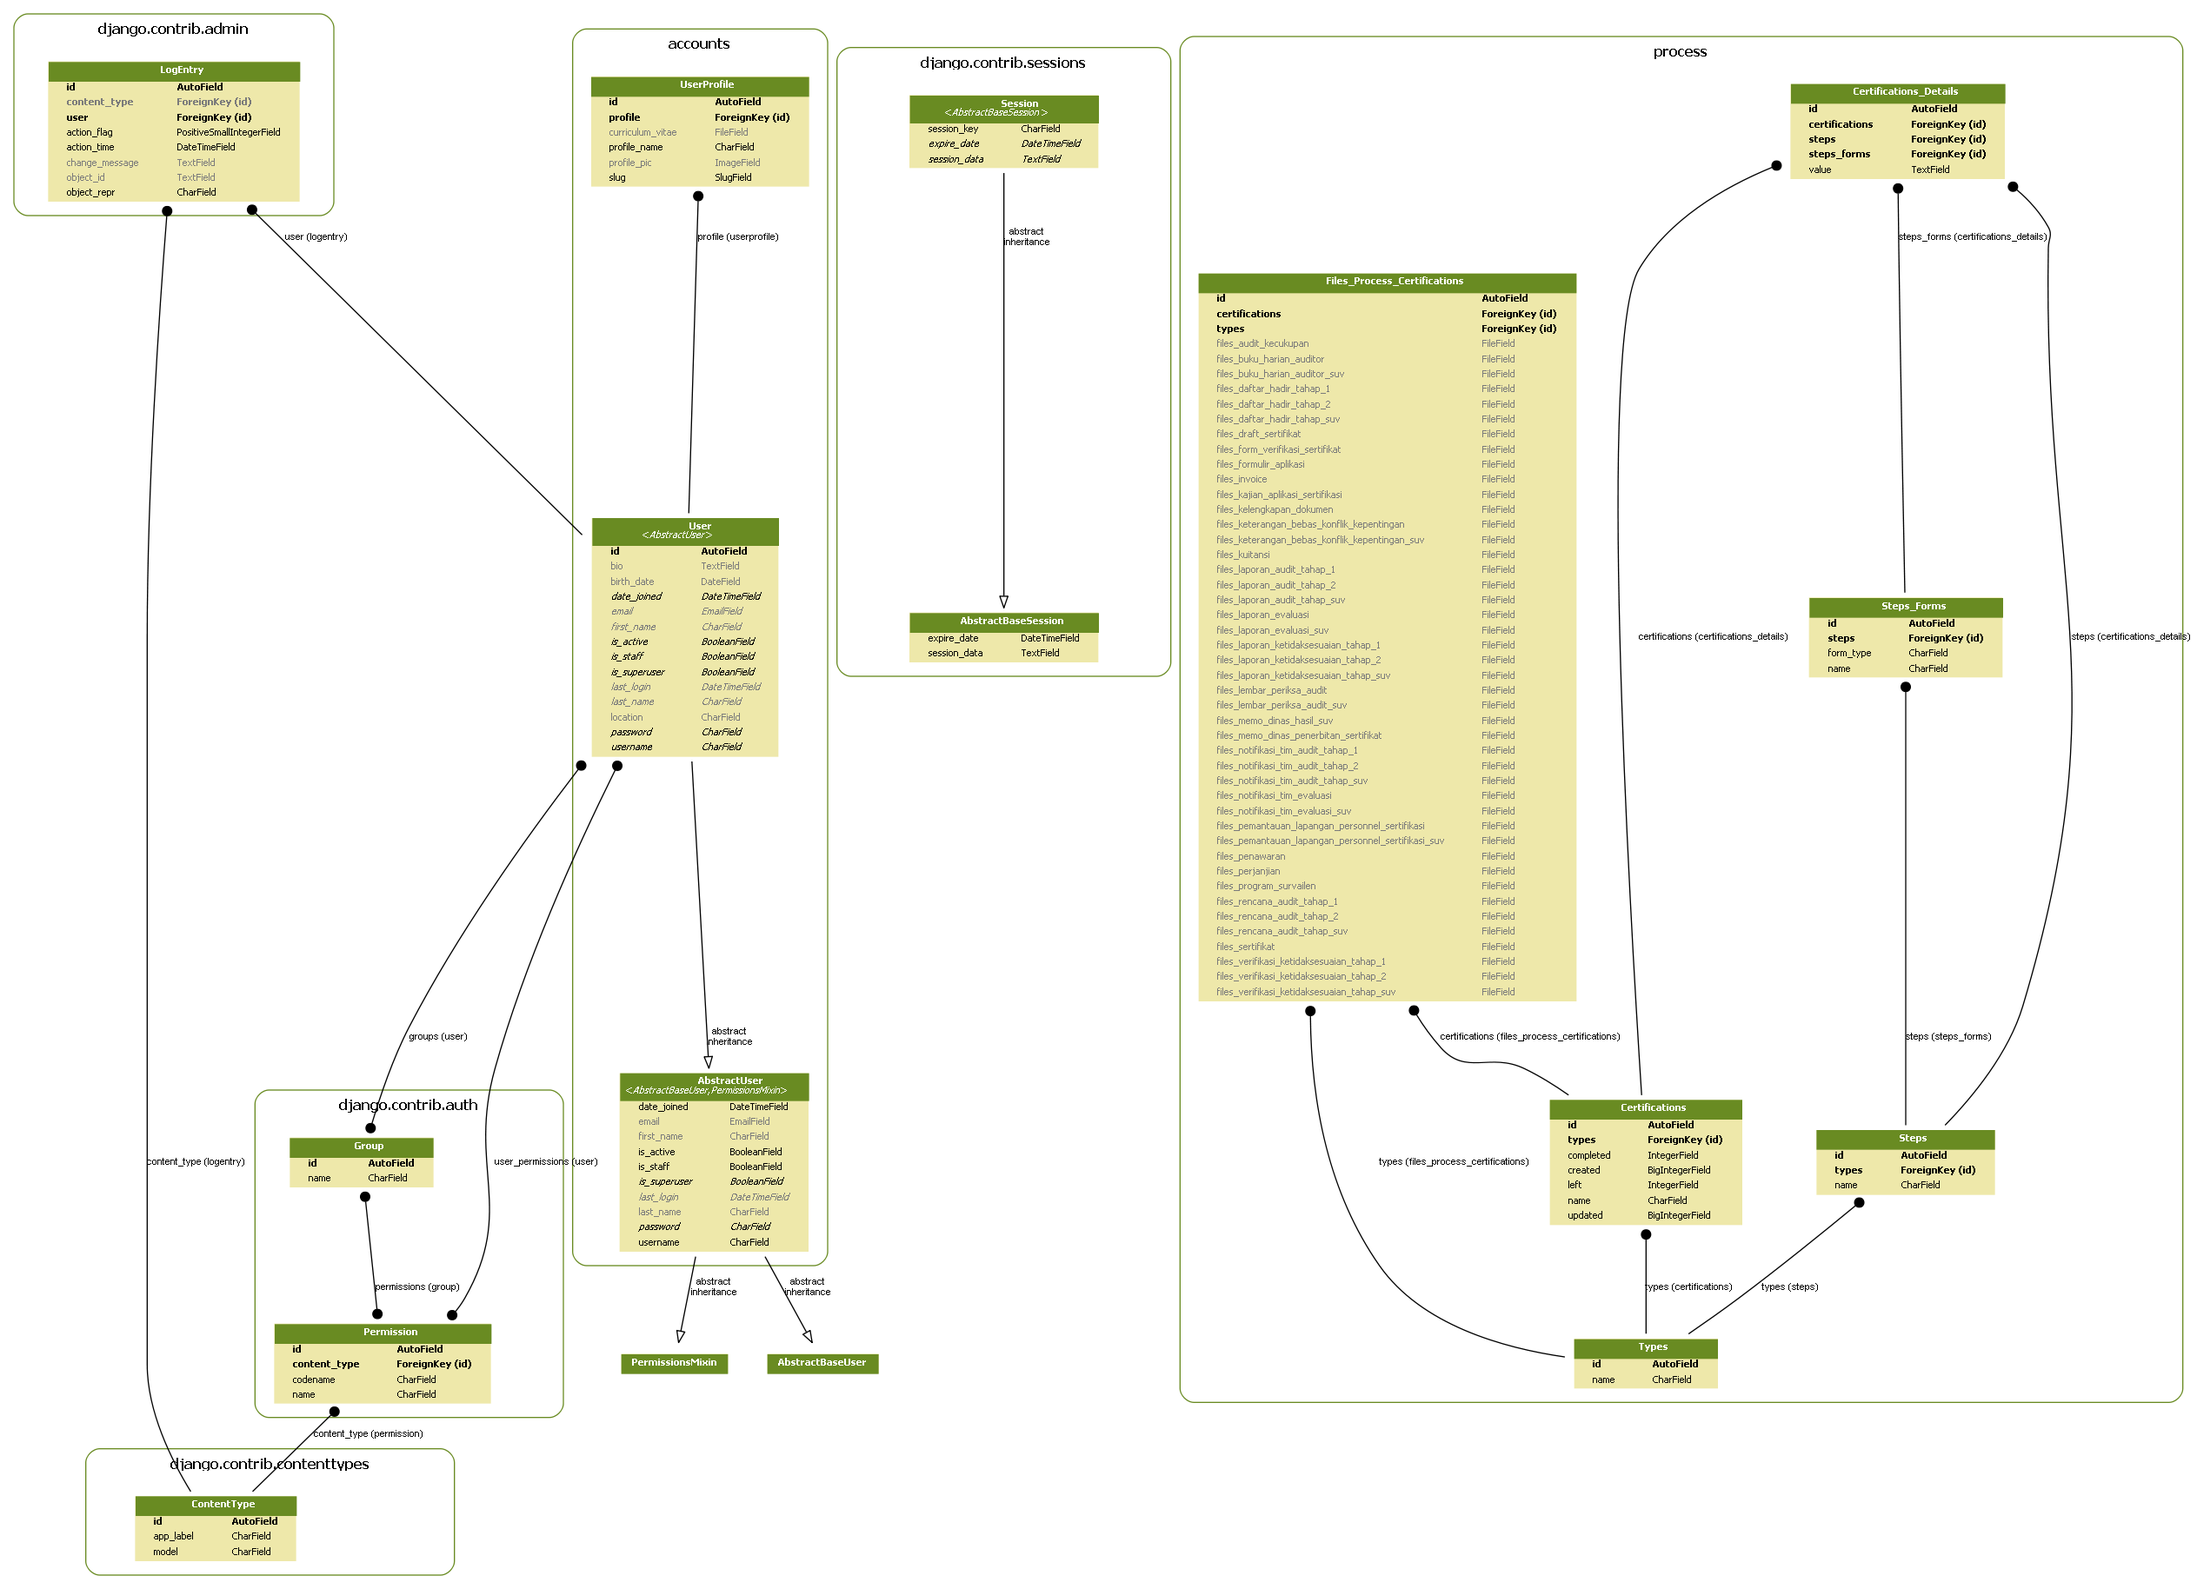
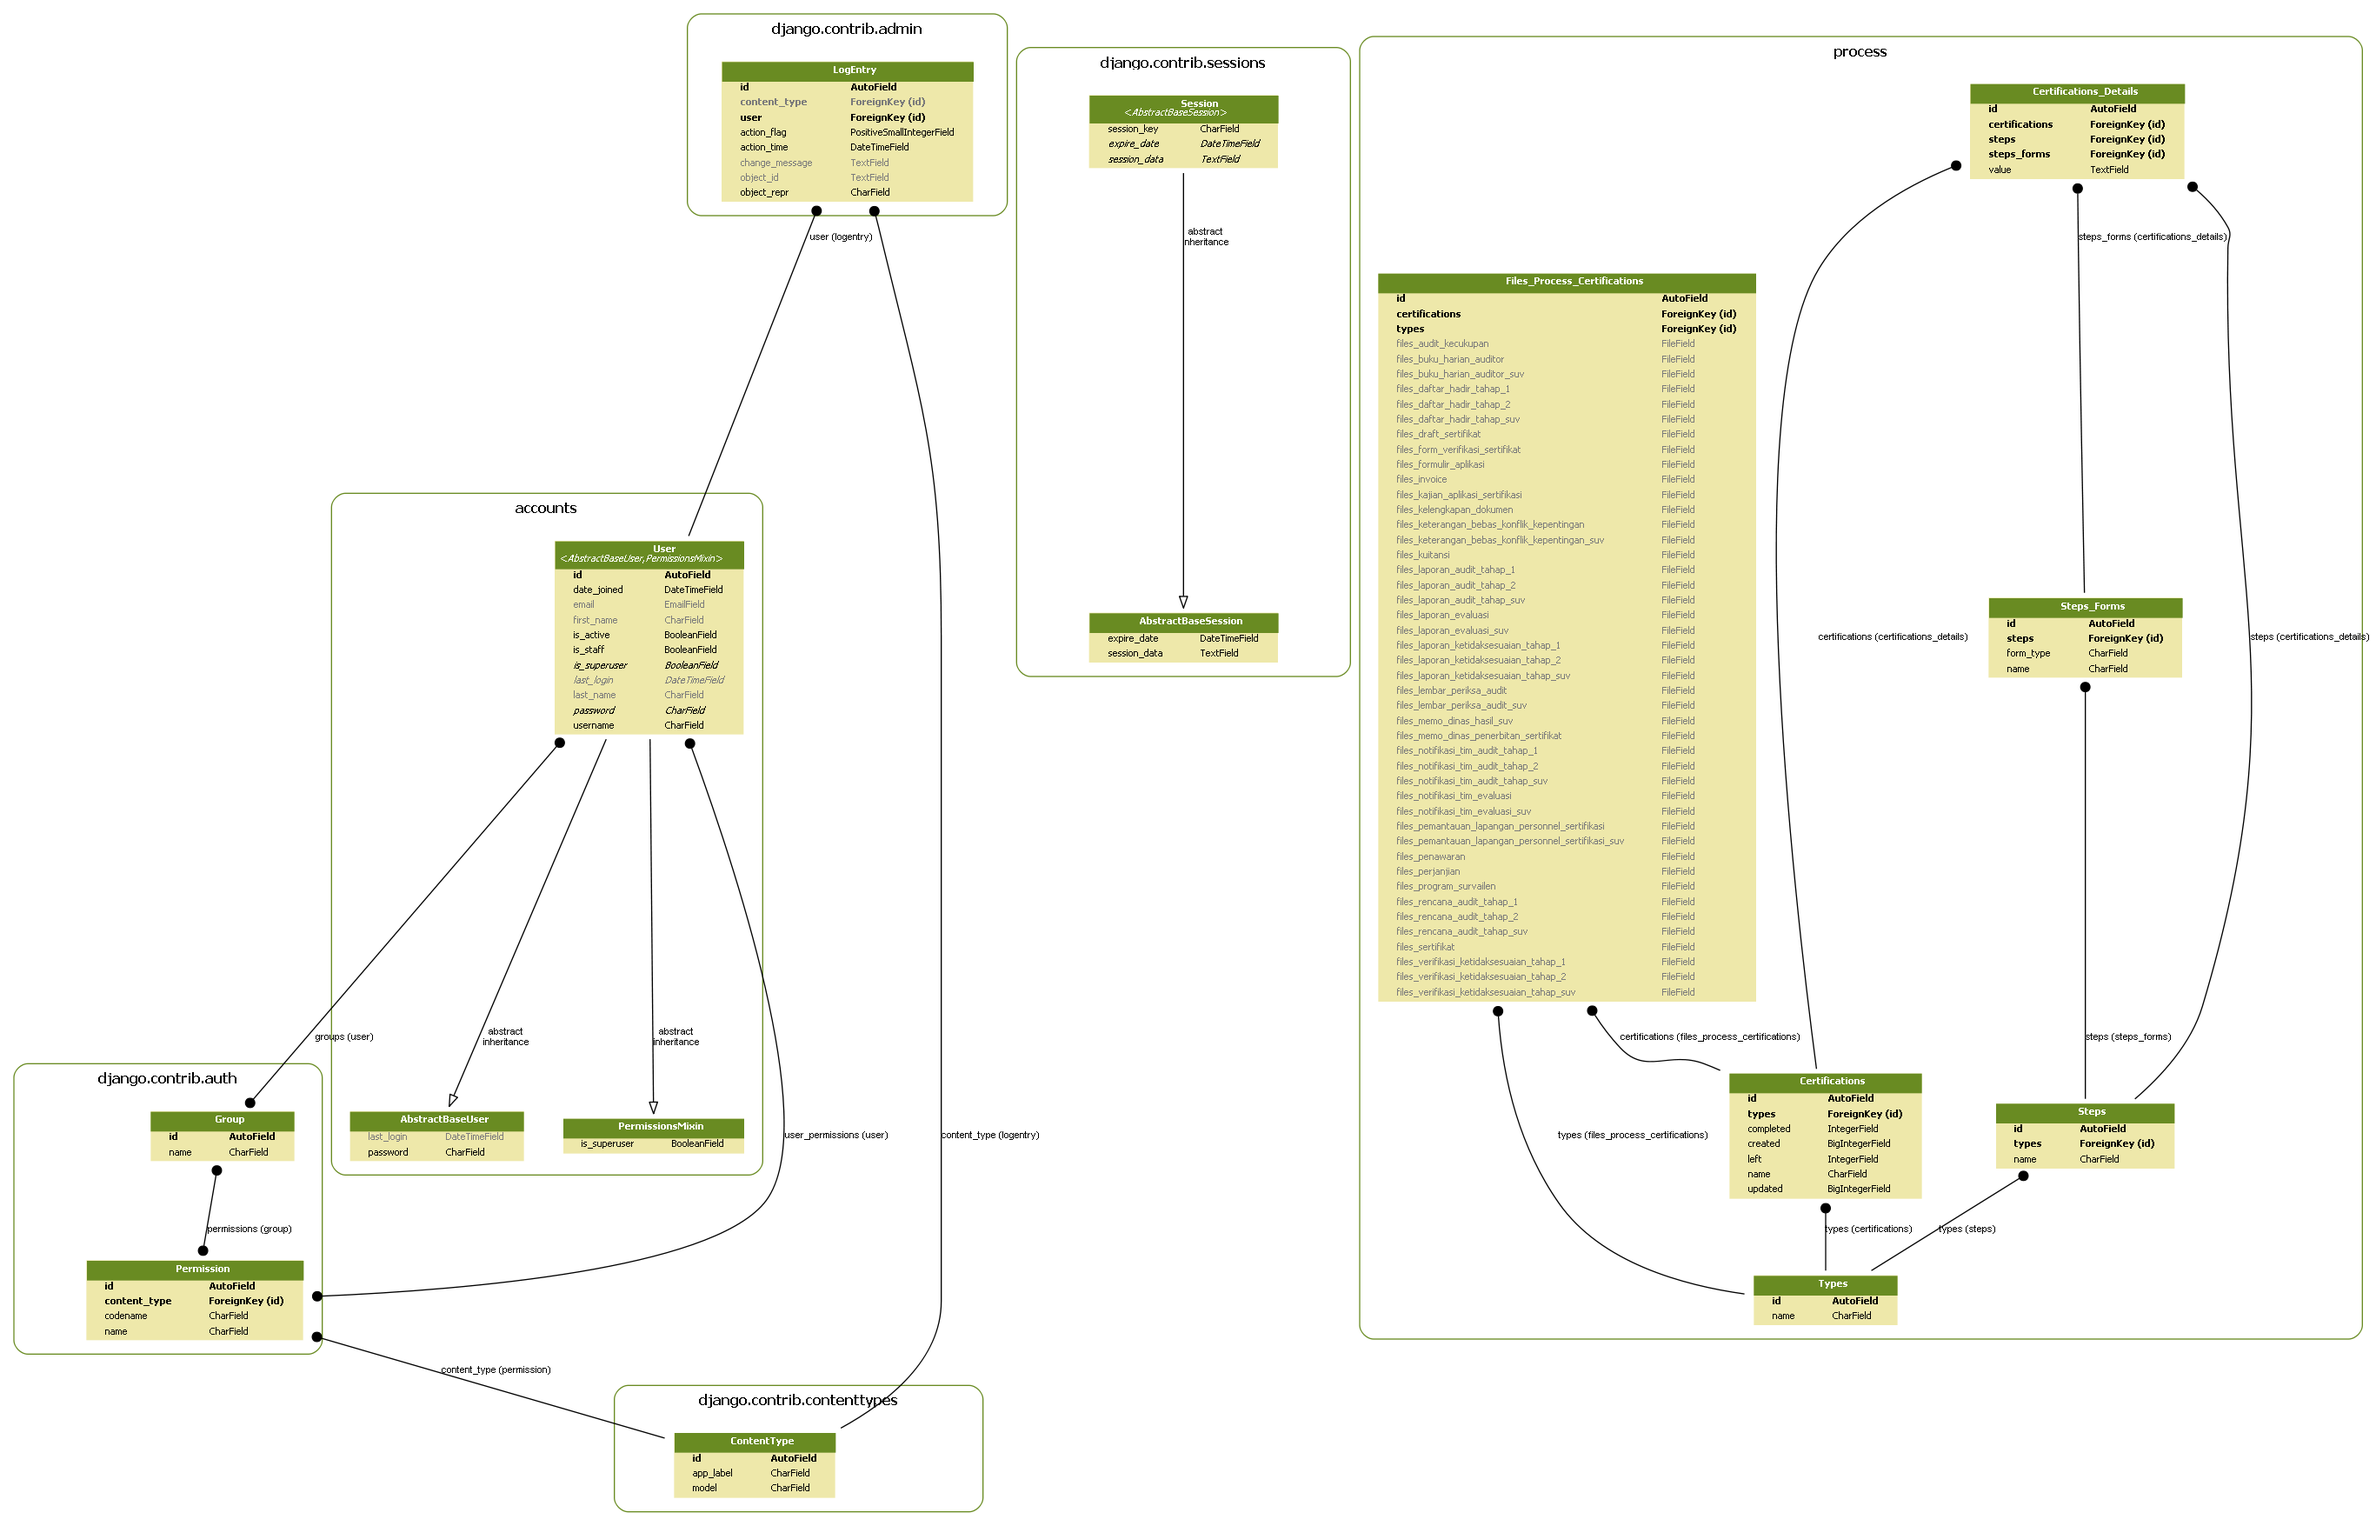
update user models

diff --git a/csidjango/accounts/models.py b/csidjango/accounts/models.py
@@ -1,15 +1,113 @@
+from __future__ import unicode_literals
+
 from django.db import models
-from django.contrib.auth.models import AbstractUser
+from django.core.mail import send_mail
+from django.contrib.auth.models import PermissionsMixin, UnicodeUsernameValidator
+from django.contrib.auth.base_user import AbstractBaseUser
+from django.utils.translation import ugettext_lazy as _
+from django.utils import timezone
+
+from django.contrib.auth.base_user import BaseUserManager
+
 from django.conf import settings
 
-class User(AbstractUser):
-    bio = models.TextField(max_length=500, blank=True)
-    location = models.CharField(max_length=30, blank=True)
-    birth_date = models.DateField(null=True, blank=True)
+# Create your models here.
 
-class UserProfile(models.Model):
-    profile = models.ForeignKey(settings.AUTH_USER_MODEL, on_delete=models.CASCADE)
-    slug = models.SlugField(max_length=100)
-    profile_name = models.CharField(max_length=100)
-    profile_pic = models.ImageField(upload_to='profile_pics/', null=True, blank=True)
-    curriculum_vitae = models.FileField(upload_to='curriculum_vitae/', null=True, blank=True)    
+class UserManager(BaseUserManager):
+    use_in_migrations = True
+
+    def _create_user(self, username, email, password, **extra_fields):
+        """
+        Create and save a user with the given username, email, and password.
+        """
+        if not username:
+            raise ValueError('The given username must be set')
+        email = self.normalize_email(email)
+        username = self.model.normalize_username(username)
+        user = self.model(username=username, email=email, **extra_fields)
+        user.set_password(password)
+        user.save(using=self._db)
+        return user
+
+    def create_user(self, username, email=None, password=None, **extra_fields):
+        extra_fields.setdefault('is_staff', False)
+        extra_fields.setdefault('is_superuser', False)
+        return self._create_user(username, email, password, **extra_fields)
+
+    def create_superuser(self, username, email, password, **extra_fields):
+        extra_fields.setdefault('is_staff', True)
+        extra_fields.setdefault('is_superuser', True)
+
+        if extra_fields.get('is_staff') is not True:
+            raise ValueError('Superuser must have is_staff=True.')
+        if extra_fields.get('is_superuser') is not True:
+            raise ValueError('Superuser must have is_superuser=True.')
+
+        return self._create_user(username, email, password, **extra_fields)
+
+class User(AbstractBaseUser, PermissionsMixin):
+    """
+    An abstract base class implementing a fully featured User model with
+    admin-compliant permissions.
+    Username and password are required. Other fields are optional.
+    """
+
+    username_validator = UnicodeUsernameValidator()
+
+    username = models.CharField(
+        _('username'),
+        max_length=150,
+        unique=True,
+        help_text=_('Required. 150 characters or fewer. Letters, digits and @/./+/-/_ only.'),
+        validators=[username_validator],
+        error_messages={
+            'unique': _("A user with that username already exists."),
+        },
+    )
+
+    first_name = models.CharField(_('first name'), max_length=30, blank=True)
+    last_name = models.CharField(_('last name'), max_length=150, blank=True)
+    email = models.EmailField(_('email address'), blank=True)
+    is_staff = models.BooleanField(
+        _('staff status'),
+        default=False,
+        help_text=_('Designates whether the user can log into this admin site.'),
+    )
+    is_active = models.BooleanField(
+        _('active'),
+        default=True,
+        help_text=_(
+            'Designates whether this user should be treated as active. '
+            'Unselect this instead of deleting accounts.'
+        ),
+    )
+    date_joined = models.DateTimeField(_('date joined'), default=timezone.now)
+
+    objects = UserManager()
+
+    EMAIL_FIELD = 'email'
+    USERNAME_FIELD = 'username'
+    REQUIRED_FIELDS = ['email']
+
+    class Meta:
+        verbose_name = _('user')
+        verbose_name_plural = _('users')        
+
+    def clean(self):
+        super().clean()
+        self.email = self.__class__.objects.normalize_email(self.email)
+
+    def get_full_name(self):
+        """
+        Return the first_name plus the last_name, with a space in between.
+        """
+        full_name = '%s %s' % (self.first_name, self.last_name)
+        return full_name.strip()
+
+    def get_short_name(self):
+        """Return the short name for the user."""
+        return self.first_name
+
+    def email_user(self, subject, message, from_email=None, **kwargs):
+        """Send an email to this user."""
+        send_mail(subject, message, from_email, [self.email], **kwargs)

diff --git a/csidjango/process/models.py b/csidjango/process/models.py
@@ -11,7 +11,7 @@ class Steps(models.Model):
     name = models.CharField(max_length=150)
 
 
-class Steps_Forms(models.Model):
+class StepsForms(models.Model):
     steps = models.ForeignKey(Steps, on_delete=models.CASCADE)
     form_type = models.CharField(max_length=20)
     name = models.CharField(max_length=150)
@@ -25,13 +25,13 @@ class Certifications(models.Model):
     created = models.BigIntegerField()
     updated = models.BigIntegerField()
 
-class Certifications_Details(models.Model):
+class CertificationsDetails(models.Model):
     certifications = models.ForeignKey(Certifications, on_delete=models.CASCADE)
     steps = models.ForeignKey(Steps, on_delete=models.CASCADE)
     steps_forms = models.ForeignKey(Steps_Forms, on_delete=models.CASCADE)
     value = models.TextField()
 
-class Files_Process_Certifications(models.Model):
+class FilesProcessCertifications(models.Model):
     types = models.ForeignKey(Types, on_delete=models.CASCADE)
     certifications = models.ForeignKey(Certifications, on_delete=models.CASCADE)
     files_formulir_aplikasi = models.FileField(upload_to='files_process/', null=True, blank=True)

diff --git a/csidjango/accounts/models_old2.py b/csidjango/accounts/models_old2.py
@@ -1,0 +1,19 @@
+from django.db import models
+from django.contrib.auth.models import AbstractUser
+from django.conf import settings
+
+class User(AbstractUser):
+    bio = models.TextField(max_length=500, blank=True)
+    location = models.CharField(max_length=30, blank=True)
+    birth_date = models.DateField(null=True, blank=True)
+
+class UserProfile(models.Model):
+    profile = models.ForeignKey(settings.AUTH_USER_MODEL, on_delete=models.CASCADE)
+    slug = models.SlugField(max_length=100)
+    profile_name = models.CharField(max_length=100)
+    profile_pic = models.ImageField(upload_to='profile_pics/', null=True, blank=True)
+
+class UserPortofolio(models.Model):
+    curriculum_vitae = models.FileField(upload_to='curriculum_vitae/', null=True, blank=True)
+    files_portofolio = models.FileField(upload_to='curriculum_vitae/', null=True, blank=True)
+    

diff --git a/csidjango/accounts/migrations/0006_auto_20190513_0900.py b/csidjango/accounts/migrations/0006_auto_20190513_0900.py
@@ -1,0 +1,35 @@
+# Generated by Django 2.2.1 on 2019-05-13 02:00
+
+import accounts.models
+from django.db import migrations
+
+
+class Migration(migrations.Migration):
+
+    dependencies = [
+        ('accounts', '0005_auto_20190508_1155'),
+    ]
+
+    operations = [
+        migrations.AlterModelManagers(
+            name='user',
+            managers=[
+                ('objects', accounts.models.UserManager()),
+            ],
+        ),
+        migrations.RemoveField(
+            model_name='user',
+            name='bio',
+        ),
+        migrations.RemoveField(
+            model_name='user',
+            name='birth_date',
+        ),
+        migrations.RemoveField(
+            model_name='user',
+            name='location',
+        ),
+        migrations.DeleteModel(
+            name='UserProfile',
+        ),
+    ]

diff --git a/csidjango/accounts/admin.py b/csidjango/accounts/admin.py
@@ -1,5 +1,5 @@
 from django.contrib import admin
-from .models import User, UserProfile
+from .models import User
 
 # Register your models here.
 admin.site.register(User)
